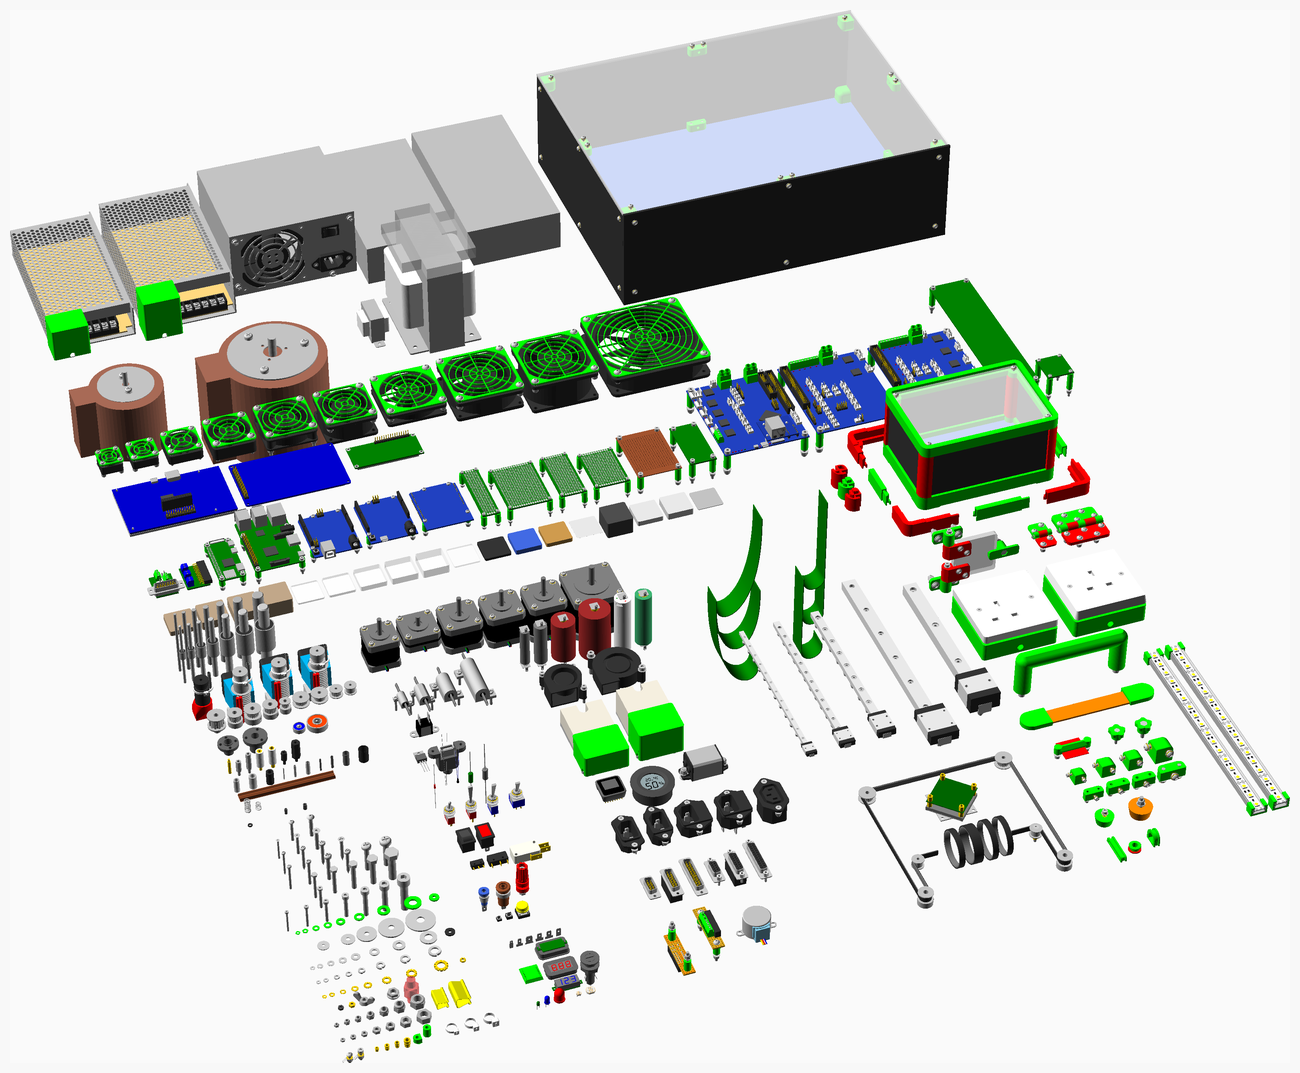
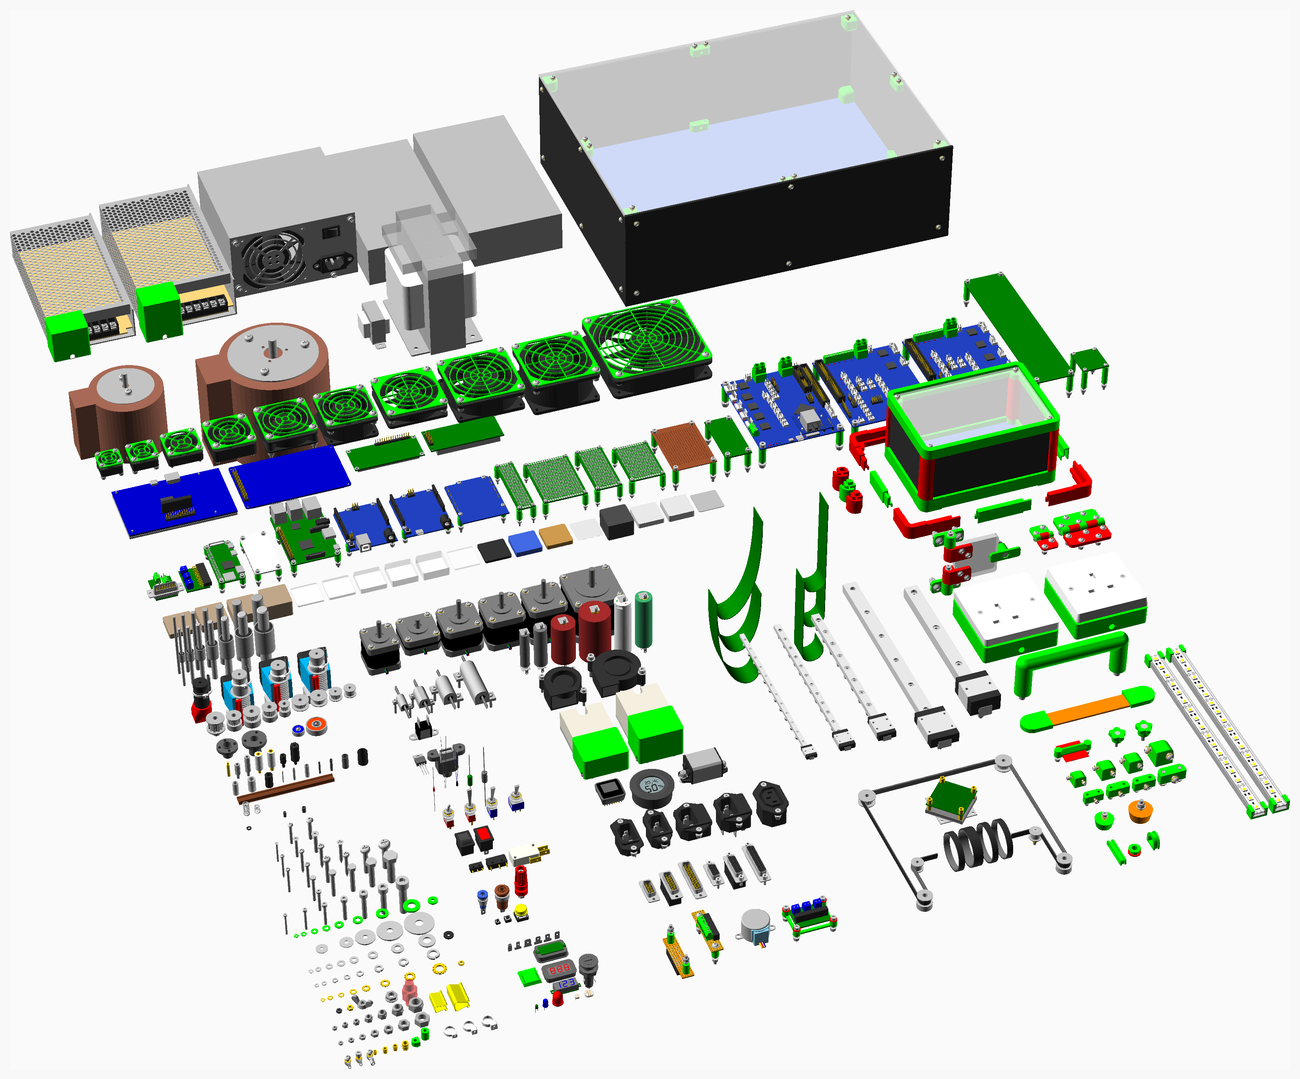
Added printed pcb_mount to hold PCBs without mounting holes.

diff --git a/readme.md b/readme.md
@@ -30,13 +30,13 @@ See [usage](docs/usage.md) for requirements, installation instructions and a usa
 <tr><td> <a href = "#Displays">Displays</a> </td><td> <a href = "#Ring_terminals">Ring_terminals</a> </td><td> <a href = "#Flat_hinge">Flat_hinge</a> </td><td> <a href = "#Round">Round</a> </td><td></td></tr>
 <tr><td> <a href = "#Fans">Fans</a> </td><td> <a href = "#Rockers">Rockers</a> </td><td> <a href = "#Foot">Foot</a> </td><td> <a href = "#Rounded_cylinder">Rounded_cylinder</a> </td><td></td></tr>
 <tr><td> <a href = "#Fuseholder">Fuseholder</a> </td><td> <a href = "#Rod">Rod</a> </td><td> <a href = "#Handle">Handle</a> </td><td> <a href = "#Rounded_polygon">Rounded_polygon</a> </td><td></td></tr>
-<tr><td> <a href = "#Geared_steppers">Geared_steppers</a> </td><td> <a href = "#Screws">Screws</a> </td><td> <a href = "#Psu_shroud">Psu_shroud</a> </td><td> <a href = "#Sector">Sector</a> </td><td></td></tr>
-<tr><td> <a href = "#Green_terminals">Green_terminals</a> </td><td> <a href = "#Sealing_strip">Sealing_strip</a> </td><td> <a href = "#Ribbon_clamp">Ribbon_clamp</a> </td><td> <a href = "#Sweep">Sweep</a> </td><td></td></tr>
-<tr><td> <a href = "#Hot_ends">Hot_ends</a> </td><td> <a href = "#Sheets">Sheets</a> </td><td> <a href = "#Screw_knob">Screw_knob</a> </td><td> <a href = "#Tube">Tube</a> </td><td></td></tr>
-<tr><td> <a href = "#Hygrometer">Hygrometer</a> </td><td> <a href = "#Spades">Spades</a> </td><td> <a href = "#Socket_box">Socket_box</a> </td><td></td><td></td></tr>
-<tr><td> <a href = "#Iecs">Iecs</a> </td><td> <a href = "#Spools">Spools</a> </td><td> <a href = "#Ssr_shroud">Ssr_shroud</a> </td><td></td><td></td></tr>
-<tr><td> <a href = "#Inserts">Inserts</a> </td><td> <a href = "#Springs">Springs</a> </td><td> <a href = "#Strap_handle">Strap_handle</a> </td><td></td><td></td></tr>
-<tr><td> <a href = "#Jack">Jack</a> </td><td> <a href = "#Ssrs">Ssrs</a> </td><td></td><td></td><td></td></tr>
+<tr><td> <a href = "#Geared_steppers">Geared_steppers</a> </td><td> <a href = "#Screws">Screws</a> </td><td> <a href = "#Pcb_mount">Pcb_mount</a> </td><td> <a href = "#Sector">Sector</a> </td><td></td></tr>
+<tr><td> <a href = "#Green_terminals">Green_terminals</a> </td><td> <a href = "#Sealing_strip">Sealing_strip</a> </td><td> <a href = "#Psu_shroud">Psu_shroud</a> </td><td> <a href = "#Sweep">Sweep</a> </td><td></td></tr>
+<tr><td> <a href = "#Hot_ends">Hot_ends</a> </td><td> <a href = "#Sheets">Sheets</a> </td><td> <a href = "#Ribbon_clamp">Ribbon_clamp</a> </td><td> <a href = "#Tube">Tube</a> </td><td></td></tr>
+<tr><td> <a href = "#Hygrometer">Hygrometer</a> </td><td> <a href = "#Spades">Spades</a> </td><td> <a href = "#Screw_knob">Screw_knob</a> </td><td></td><td></td></tr>
+<tr><td> <a href = "#Iecs">Iecs</a> </td><td> <a href = "#Spools">Spools</a> </td><td> <a href = "#Socket_box">Socket_box</a> </td><td></td><td></td></tr>
+<tr><td> <a href = "#Inserts">Inserts</a> </td><td> <a href = "#Springs">Springs</a> </td><td> <a href = "#Ssr_shroud">Ssr_shroud</a> </td><td></td><td></td></tr>
+<tr><td> <a href = "#Jack">Jack</a> </td><td> <a href = "#Ssrs">Ssrs</a> </td><td> <a href = "#Strap_handle">Strap_handle</a> </td><td></td><td></td></tr>
 <tr><td> <a href = "#Ldrs">Ldrs</a> </td><td> <a href = "#Stepper_motors">Stepper_motors</a> </td><td></td><td></td><td></td></tr>
 <tr><td> <a href = "#Leadnuts">Leadnuts</a> </td><td> <a href = "#Toggles">Toggles</a> </td><td></td><td></td><td></td></tr>
 <tr><td> <a href = "#Leds">Leds</a> </td><td> <a href = "#Transformers">Transformers</a> </td><td></td><td></td><td></td></tr>
@@ -3849,6 +3849,54 @@ Printed handle that can be printed without needing support material due to its t
 | Qty | Name |
 | ---:|:--- |
 |   1 | handle_assembly |
+
+
+<a href="#top">Top</a>
+
+---
+<a name="Pcb_mount"></a>
+## Pcb_mount
+A frame to mount a PCB by its corners when it has no mounting holes.
+The stl must be given a parameterless wrapper in the project that uses it.
+
+
+[printed/pcb_mount.scad](printed/pcb_mount.scad) Implementation.
+
+[tests/pcb_mount.scad](tests/pcb_mount.scad) Code for this example.
+
+### Functions
+| Function | Description |
+|:--- |:--- |
+| ```pcb_mount_length(pcb)``` | Outside length of the mount |
+| ```pcb_mount_width(pcb)``` | Outside width of the mount |
+| ```pillar_x_pitch(pcb)``` | x pitch of screw pillars |
+| ```pillar_y_pitch(pcb)``` | y pitch of screw pillars |
+
+### Modules
+| Module | Description |
+|:--- |:--- |
+| ```pcb_mount(pcb, height = 5, washers = true)``` | Make the STL of a pcb mount for the specified PCB. |
+| ```pcb_mount_assembly(pcb, thickness, height = 5)``` | A PCB mount assembly with fasteners |
+| ```pcb_mount_holes(pcb, h = 0)``` | Drill holes for PCB mount |
+| ```pcb_mount_screw_positions(pcb)``` | Positions of the screws and pillars |
+| ```pcb_mount_washer_stl()``` | A plastic washer to clamp a PCB |
+
+![pcb_mount](tests/png/pcb_mount.png)
+
+### Vitamins
+| Qty | Module call | BOM entry |
+| ---:|:--- |:---|
+|   4 | ```nut(M3_nut, nyloc = true)``` |  Nut M3 x 2.4mm nyloc |
+|   1 | ```pcb(PI_IO)``` |  PI_IO V2 |
+|   1 | ```pin_socket(2p54header, 13, 2)``` |  Pin socket 13 x 2 |
+|   4 | ```screw(M3_cap_screw, 16)``` |  Screw M3 cap x 16mm |
+|   3 | ```terminal_35(2)``` |  Terminal block 2 way 3.5mm |
+|   4 | ```washer(M3_washer)``` |  Washer  M3 x 7mm x 0.5mm |
+
+### Printed
+| Qty | Filename |
+| ---:|:--- |
+|   1 | pcb_mount_PI_IO_5.stl |
 
 
 <a href="#top">Top</a>
